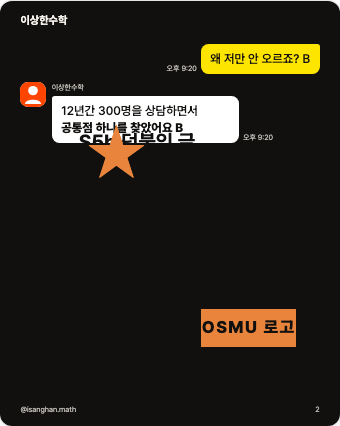
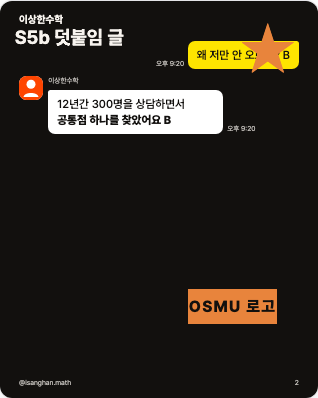
fix(editroom): close S5b minor regressions

diff --git a/dashboard/src/lib/studio/card-element-commands.ts b/dashboard/src/lib/studio/card-element-commands.ts
@@ -38,7 +38,7 @@ export interface CardCommandHistory {
   future: CardDeckV3[];
 }
 
-type ElementSeed = { id: string; assetId?: string; assetAlt?: string };
+type ElementSeed = { id: string; assetId?: string; assetAlt?: string; textColor?: `#${string}` };
 
 export type PlainCardTextPosition =
   | "top-left" | "top-center" | "top-right"
@@ -235,7 +235,7 @@ export function createDefaultCardElement(type: CardElementType, seed: ElementSee
         font_weight: 700,
         line_height: 1.2,
         letter_spacing: 0,
-        color: "#111111",
+        color: seed.textColor ?? "#111111",
         align: "left",
         vertical_align: "middle",
       },
@@ -262,10 +262,28 @@ export function createDefaultCardElement(type: CardElementType, seed: ElementSee
   return { ...base, type, width: 300, height: 120, asset_id: seed.assetId ?? "builtin:logo-osmu", alt: seed.assetAlt ?? "OSMU 로고", fit: "contain" };
 }
 
+function placeCardElementInEmptyArea(slide: CardSlideV3, element: CardElement, logicalHeight: number): CardElement {
+  const candidates = [
+    { x: 40, y: 40 },
+    { x: CARD_LOGICAL_WIDTH - element.width - 40, y: 40 },
+    { x: 40, y: logicalHeight - element.height - 40 },
+    { x: CARD_LOGICAL_WIDTH - element.width - 40, y: logicalHeight - element.height - 40 },
+    { x: (CARD_LOGICAL_WIDTH - element.width) / 2, y: (logicalHeight - element.height) / 2 },
+  ];
+  const occupied = slide.elements.filter((candidate) => !candidate.hidden && !(candidate.type === "image" && candidate.locked && candidate.x === 0 && candidate.y === 0));
+  const open = candidates.find((candidate) => !occupied.some((other) => (
+    candidate.x < other.x + other.width
+    && candidate.x + element.width > other.x
+    && candidate.y < other.y + other.height
+    && candidate.y + element.height > other.y
+  ))) ?? candidates.at(-1)!;
+  return { ...element, x: round(open.x), y: round(open.y) };
+}
+
 export function addCardElement(deck: CardDeckV3, slideId: string, type: CardElementType, seed: ElementSeed): CardDeckV3 {
   return mutateSlide(deck, slideId, (slide) => ({
     ...slide,
-    elements: [...slide.elements, createDefaultCardElement(type, seed, slide.elements.length)],
+    elements: [...slide.elements, placeCardElementInEmptyArea(slide, createDefaultCardElement(type, { ...seed, textColor: deck.theme.foreground as `#${string}` }, slide.elements.length), CARD_LOGICAL_HEIGHT[deck.ratio])],
   }));
 }
 
@@ -275,7 +293,8 @@ export function addChatOverlayElement(deck: CardDeckV3, slideId: string, type: C
   if (!slide || slide.base.kind !== "chat_bubble") return clone(deck);
   return mutateSlide(deck, slideId, (current) => {
     const elements = normalizeZ(current.elements.filter((element) => !isChatBaseProjectionElement(current, element)));
-    return { ...current, elements: [...elements, createDefaultCardElement(type, seed, elements.length)] };
+    const cleaned = { ...current, elements };
+    return { ...cleaned, elements: [...elements, placeCardElementInEmptyArea(cleaned, createDefaultCardElement(type, { ...seed, textColor: deck.theme.foreground as `#${string}` }, elements.length), CARD_LOGICAL_HEIGHT[deck.ratio])] };
   });
 }
 
@@ -352,7 +371,11 @@ function mutateChatSlide(
 }
 
 export function patchChatDeckBrand(deck: CardDeckV3, patch: Partial<CardDeckBrand>): CardDeckV3 {
-  const brand = { ...deck.brand, ...patch };
+  const brand = {
+    ...deck.brand,
+    ...patch,
+    ...(Object.prototype.hasOwnProperty.call(patch, "reader_name") ? { reader_name: patch.reader_name?.trim() || "구독자" } : {}),
+  };
   if (!brand.display_name.trim()) throw new RangeError("CARD_CHAT_BRAND_NAME_REQUIRED");
   if (JSON.stringify(brand) === JSON.stringify(deck.brand)) return clone(deck);
   return { ...clone(deck), revision: deck.revision + 1, brand };

diff --git a/dashboard/src/lib/studio/card-element-commands.test.ts b/dashboard/src/lib/studio/card-element-commands.test.ts
@@ -22,6 +22,7 @@ import {
   nudgeCardElement,
   patchTextElement,
   patchChatBubbleText,
+  patchChatDeckBrand,
   redoCardCommand,
   resizeCardElement,
   rotateCardElement,
@@ -257,6 +258,19 @@ describe("T-CARD-OPS 카드 자유 배치 순수 명령", () => {
     expect(added.slides[0].base).toEqual(chat.slides[0].base);
     expect(added.slides[0].elements).toMatchObject([{ id: "chat_logo", type: "logo", z_index: 0 }]);
     expect(addChatOverlayElement(deck(), "slide_cover", "logo", { id: "rejected_logo" })).toEqual(deck());
+  });
+
+  it("S5b-R1-MINOR 새 글은 테마 전경색과 겹치지 않는 빈 영역을 쓰고 빈 독자 이름은 구독자로 정규화한다", () => {
+    const chat = deck();
+    chat.template = "chat_bubble";
+    chat.theme.foreground = "#F9FAFB";
+    chat.slides[0].base = { kind: "chat_bubble", cover: { headline: "첫 장", sub: null }, bubbles: [] };
+    const first = addChatOverlayElement(chat, "slide_cover", "text", { id: "el_text_first" });
+    const second = addChatOverlayElement(first, "slide_cover", "text", { id: "el_text_second" });
+    const [firstText, secondText] = second.slides[0].elements;
+    expect(firstText.type === "text" ? firstText.style.color : null).toBe("#F9FAFB");
+    expect([firstText.x, firstText.y]).not.toEqual([secondText.x, secondText.y]);
+    expect(patchChatDeckBrand(second, { reader_name: "   " }).brand.reader_name).toBe("구독자");
   });
 
   it("S1-R3-BOUNDS-01 끌기와 방향키 이동 뒤에도 장과 최소 1px 교차한다", () => {

diff --git a/dashboard/src/lib/studio/card-render-model.ts b/dashboard/src/lib/studio/card-render-model.ts
@@ -46,9 +46,10 @@ export function isChatBaseProjectionElement(slide: CardSlideV3, element: CardEle
   if (slide.base.kind !== "chat_bubble" || element.type !== "text") return false;
   if (element.id === `el_${slide.id}_cover` || element.id === `el_${slide.id}_sub`) return true;
   if (slide.base.bubbles.some((bubble) => element.id === `el_${bubble.id}`)) return true;
-  // S5 이전 덱에서 말풍선을 삭제·이동하면 projection만 남을 수 있다. 사용자가 추가한
-  // 자유 글(name="글")과 구분해 옛 말풍선 projection 및 그 복사본을 렌더 대상에서 뺀다.
-  return element.id.startsWith("el_") && /말풍선/.test(element.name);
+  // converter v1은 원형 projection을 `el_<원본 id>` namespace로 만들었고, 자유 글은
+  // `el_text_<uuid>` namespace로 만든다. 사용자에게 보이는 name 정규식에 기대지 않고
+  // 이 구조적 ID 계약으로 삭제·이동 뒤 고아 projection과 그 복사본을 제외한다.
+  return element.id.startsWith("el_") && !element.id.startsWith("el_text_");
 }
 
 export function visibleCardElements(model: CardSlideRenderModel): CardElement[] {

diff --git a/dashboard/src/lib/studio/card-render-model.test.ts b/dashboard/src/lib/studio/card-render-model.test.ts
@@ -43,4 +43,16 @@ describe("T-PARITY CardSlideRenderModel", () => {
     ];
     expect(visibleCardElements(cardSlideRenderModel(chat, "slide_cover")).map((element) => element.id)).toEqual(["overlay_logo"]);
   });
+
+  it("S5b-R1-MINOR 고아 projection은 표시 이름이 아니라 converter ID 구조로만 판별한다", () => {
+    const chat = structuredClone(deck);
+    chat.template = "chat_bubble";
+    chat.slides[0].base = { kind: "chat_bubble", cover: { headline: "첫 장", sub: null }, bubbles: [] };
+    const seed = chat.slides[0].elements[0] as Extract<CardElement, { type: "text" }>;
+    chat.slides[0].elements = [
+      { ...seed, id: "el_deleted-bubble-id", name: "이름이 바뀐 원형", hidden: false },
+      { ...seed, id: "el_text_user-added", name: "사용자가 붙인 말풍선 메모", hidden: false, z_index: 2 },
+    ];
+    expect(visibleCardElements(cardSlideRenderModel(chat, "slide_cover")).map((element) => element.id)).toEqual(["el_text_user-added"]);
+  });
 });

diff --git a/docs/qa/osmu-editroom-s5b-build-evidence-v1-gpt-codex.md b/docs/qa/osmu-editroom-s5b-build-evidence-v1-gpt-codex.md
@@ -6,7 +6,7 @@ STAMP: 2026-10-07 00:48 KST | model: gpt-6.1-sol/Codex | agent: code-builder | s
 
 ## 결론
 
-S5b-AC1~3은 로컬 build 단계에서 통과했다. 플래그를 켠 실제 Next 개발 서버에서 v2 카톡 덱을 v3 고급 편집기로 열고, 저장·재열기·발행 경로를 거쳐 브라우저 캔버스와 Remotion PNG를 생성했다. 두 PNG 모두 프로필 아바타와 글·스티커·로고 덧붙임 요소를 실제 픽셀로 포함한다.
+S5b-AC1~3은 로컬 build 단계에서 통과했다. 플래그를 켠 실제 Next 개발 서버에서 v2 카톡 덱을 v3 고급 편집기로 열고, 저장·재열기 뒤 실제 `/studio?room=publish` 화면으로 이동했으며 브라우저 캔버스와 Remotion PNG를 생성했다. 두 PNG 모두 프로필 아바타와 글·스티커·로고 덧붙임 요소를 실제 픽셀로 포함한다.
 
 ## 수용 기준
 
@@ -25,7 +25,8 @@ S5b-AC1~3은 로컬 build 단계에서 통과했다. 플래그를 켠 실제 Nex
 | contract | `npx vitest run contract` | 107파일, 621건 PASS |
 | 변경 import 영향 | `npx vitest related --run <S5b 변경 TypeScript 10파일>` | 64파일 PASS, 1파일 환경 skip. 530건 PASS, 12건 환경 skip |
 | 생산 build | `~/.claude/harness/bin/heavy-slot.sh npm run build` | Next.js 16.2.2 production build PASS, 188개 static page 생성. 기존 NFT trace 경고 2건 |
-| 플래그 ON E2E | `CARD_DECK_V3_RENDER_ENABLED=1 NEXT_PUBLIC_CARD_DECK_V3_RENDER_ENABLED=1`, Next dev `http://localhost:3477`, `CHAT_S5_BASE_URL=http://localhost:3477 npm run e2e:chat-s5` | PASS, 카드 9장, 저장 4회, 콘솔 오류 0, 실패 요청 0, 360~1440 가로 넘침 0 |
+| 실제 drafts route 통합 | `npx vitest run tests/api/studio-drafts-route-card-deck-v3.integration.test.ts` | 실제 `POST` route handler와 저장 adapter mock을 연결해 편집된 동기 v2/v3 본문을 200으로 수락 |
+| 플래그 ON E2E | `CARD_DECK_V3_RENDER_ENABLED=1 NEXT_PUBLIC_CARD_DECK_V3_RENDER_ENABLED=1`, Next dev `http://localhost:3477`, `CHAT_S5_BASE_URL=http://localhost:3477 npm run e2e:chat-s5` | PASS, 카드 9장, 저장 5회, `/studio?room=publish` 이동, 콘솔 오류 0, 실패 요청 0, 360~1440 가로 넘침 0. drafts API는 브라우저 픽스처가 가로채되 production `isSynchronizedChatCardDeckV3`와 같은 409 조건을 적용 |
 | Remotion overflow 경계 | 같은 E2E에서 실제 `renderStill` 실행 | `CARD_CHAT_OVERFLOW`로 긴 말풍선 거절 확인 |
 | 모바일 인체공학 | 데이터 9장, 조작 대상 22개 fixture, 폭 360·390·412·600·700·780·820·900·1000 | 전 폭 본문 16px, 13px 미만 0, 44px 미만 0, 눌림 상태 100%, 가로 넘침 0 |
 | 디자인 lint | `bash ~/.claude/harness/bin/design-lint.sh dashboard/src` | 검사 종료 0. 저장소 기존 인라인 style 3파일·hex 8파일 경고 유지, 이번 diff 신규 리터럴 없음 |

diff --git a/docs/qa/qa-tracker.md b/docs/qa/qa-tracker.md
@@ -2,10 +2,10 @@
 
 | 요청번호 | 결함 | 현재 판정 | 종료 증거 |
 |---|---|---|---|
-| S5b-R1-M1 | v3 카톡 편집 뒤 공통 저장 경로가 동기화되지 않은 v3 hash를 보내 발행실 이동·검토 요청·임시 저장이 409 | ❌ NG | 편집 후 실제 drafts route를 거치는 발행실 이동 통합 테스트와 세 저장 호출부 PASS |
-| S5b-R1-M3 | 말풍선을 표지·CTA 장으로 옮길 수 있어 PNG에서 내용이 사라짐 | ❌ NG | UI 대상 제외, command의 `OPS_BUBBLE_TARGET_LOCKED` 거절, 경계 테스트 PASS |
-| S5b-R1-M2 | v3 카톡 편집기에 장·표지·사진·범위 굵게·overflow 검사·기본 편집 복귀 도구가 누락됨 | ❌ NG | v71 한 화면 도구 전수 이식과 interaction·route·플래그 ON E2E PASS. 전수 이식 실패 시 v3 진입 차단 |
-| S5b-R1-m1 | 새 글 색상·빈 영역 배치·독자명·고아 projection 구조 판별·route E2E 증거가 불완전함 | ❌ NG | 테마 기반 글 요소, 비말풍선 기본 독자명, converter 구조 판별, 실제 route E2E PASS |
+| S5b-R1-M1 | v3 카톡 편집 뒤 공통 저장 경로가 동기화되지 않은 v3 hash를 보내 발행실 이동·검토 요청·임시 저장이 409 | ✅ 로컬 PASS | 공통 저장 hash 동기화, 실제 drafts route handler 통합, 플래그 ON 발행실 이동 PASS |
+| S5b-R1-M3 | 말풍선을 표지·CTA 장으로 옮길 수 있어 PNG에서 내용이 사라짐 | ✅ 로컬 PASS | UI 대상 제외, command의 `OPS_BUBBLE_TARGET_LOCKED` 거절, 경계 테스트 PASS |
+| S5b-R1-M2 | v3 카톡 편집기에 장·표지·사진·범위 굵게·overflow 검사·기본 편집 복귀 도구가 누락됨 | ✅ 로컬 PASS | v71 한 화면 도구 전수 이식, 발행 renderer 기반 자동 분할·말투 적용 전 검사, StudioRooms 통합 PASS |
+| S5b-R1-m1 | 새 글 색상·빈 영역 배치·독자명·고아 projection 구조 판별·route E2E 증거가 불완전함 | ✅ 로컬 PASS | 테마 기반 글 요소, 빈 영역 배치, 독자명 정규화, converter ID 구조 판별, 실제 Next 발행실 route 이동 PASS |
 
 ## 2026-10-07 편집실 S5b 카톡 v3 프로필·덧붙임 렌더 ✅ 로컬 PASS
 
